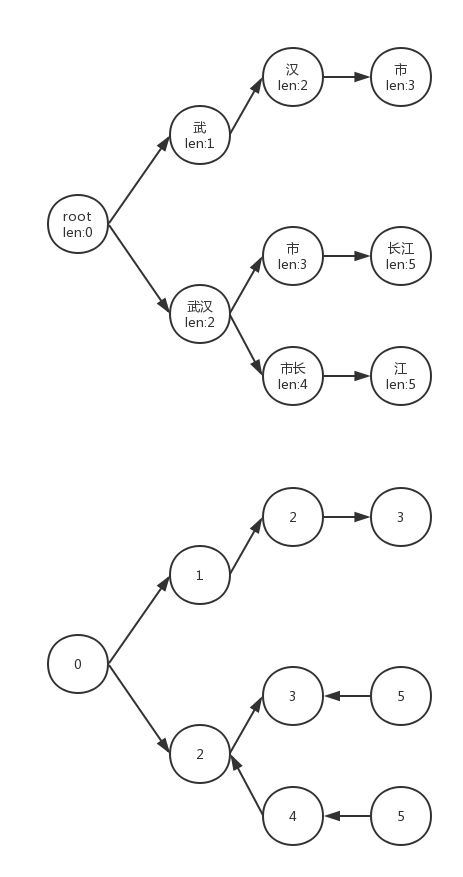
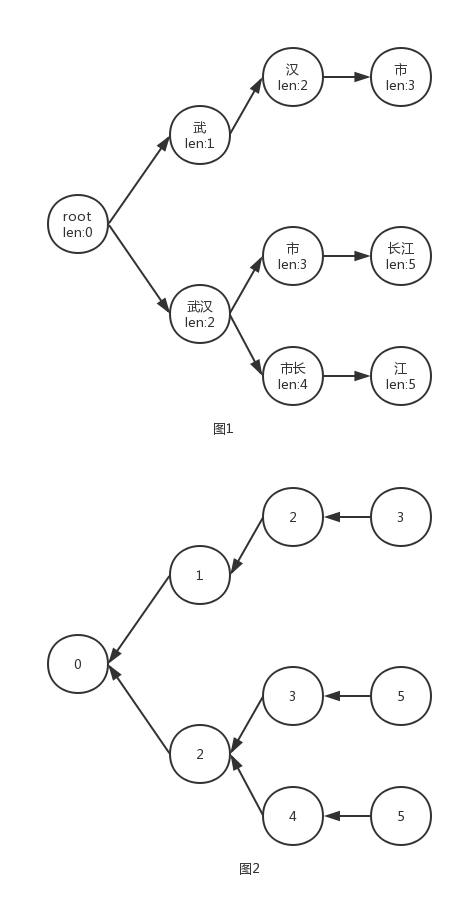
20170708@Beiyuan Road MMSEG readme & images modified

diff --git a/1_Mechanical/MMSEG/README.md b/1_Mechanical/MMSEG/README.md
@@ -5,27 +5,43 @@
 #### 匹配算法：
 
 1. 简单匹配：其实就是最大匹配(MM,RMM都可以)
+
   即简单的正向匹配，根据开头的字，列出所有可能的结果。比如“一个劲儿的说话”，可以得到
+
   一个
+  
   一个劲
+
   一个劲儿
+
   一个劲儿的
+
   这四个匹配结果（假设这四个词都包含在词典里）。
 
 2. 复杂匹配：
+
   匹配出所有的“三个词的词组”（原文中使用了chunk，这里感觉用“词组”比较合适），即从某一既定的字为起始位置，得到所有可能的“以三个词为一组”的所有组合。比如“研究生命起源”，可以得到
+
   研_究_生
+
   研_究_生命
+
   研究生_命_起源
+
   研究_生命_起源
+
   这些“词组”（根据词典，可能远不止这些，仅此举例）
+
   “消除歧义的规则”有四个，使用中依次用这四个规则进行过滤，直到只有一种结果或者第四个规则使用完毕
 
 #### 歧义消解规则：
 
 rule 1: 找出字数最多的三词组
+
 rule 2: 找出平均词长最大的三词组
+
 rule 3: 找出词组方差最小的三词组
+
 rule 4: 找出单字频率对数和最大的三词组
 
 ### 2. 模型
@@ -33,25 +49,41 @@ rule 4: 找出单字频率对数和最大的三词组
 example: 武汉市长江大桥
 
 mmseg要求获得三词组的全切分，用当前字查词典获得所有以该字为前缀的词，依次对每个词进行三轮：
+
 大致产生过程如下图1
+
 ![树型模型](https://github.com/raven1989/NaturalLanguageProcessing/tree/master/1_Mechanical/MMSEG/photo/model_3word_trunk_tree.png)
+
 再将图1进一步抽象：
+
 1. 用当前词到开头位置的长度（包括当前词）代替标示一个节点，那么从根到叶子产生的序列就可以表示每一个词组的分割：
+
    example: (2,4,5) : 武汉，市长，江
+
 2. 用父指针组织树，有利于寻找rule1要求的拥有最长字数的三词组，就是节点里数字最大的那些节点，再寻回到根既是
 
 观察图中的树，会发现很多节点是相同的，那么把相同的节点合并，就会得到下图：
-![图模型](https://github.com/raven1989/NaturalLanguageProcessing/tree/master/1_Mechanical/MMSEG/photo/model_3word_trunk_graph.png)
+
+![图模型](https://github.com/raven1989/NaturalLanguageProcessing/blob/master/1_Mechanical/MMSEG/photo/model_3word_trunk_graph.png)
+
 边上的数字表示能到达起点0的最小跳数，最大的跳数一定是3跳，
+
 对于字数最长的三词组，起点是0，终点一定是数字最大的节点，比如图3中的5，
+
 那么问题又可以抽象为以0为起点，5为终点，寻找所有的最短路径（一定是3跳）,
+
 example: (0,2,3,5), (0,2,4,5)
+
 思路：从5出发遍历所有入边，找出跳数最小的边的终点，继续依照上述规则遍历直到0
 
+
 因为图的模型和算法都比较复杂，所以这里实现采用树的模型；
+
 树的模型数据有冗余，所谓以空间换时间
 
+
 > 参考文章：
+
 [MMSEG: A Word Identification System for Mandarin Chinese Text Based on Two Variants of the Maximum Matching Algorithm](http://technology.chtsai.org/mmseg/)
 [mmseg分词算法及实现](http://blog.csdn.net/daniel_ustc/article/details/50488040)
 [关于MMSEG分词算法](http://blog.csdn.net/watkinsong/article/details/37872683)
